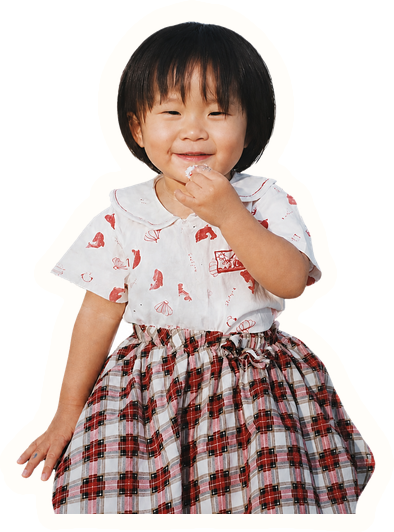
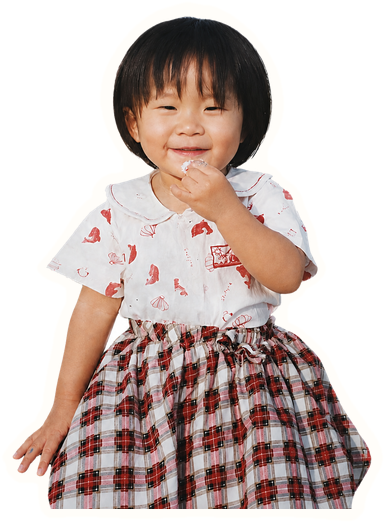
신랑 부모님 편지를 한 줄씩 오려 붙인 구성으로 변경, 아기 스티커 테두리·크기 조정, 두 편지 모두 사진 위·글 아래 구성과 머리말 위치 변경, 신부 부모님 계좌 추가

diff --git a/css/style.css b/css/style.css
@@ -408,21 +408,33 @@ body {
 /* margin 대신 padding — 위쪽 여백이 섹션 밖으로 새어 검은 띠가 생기지 않도록 */
 .lt { position: relative; padding-top: 46px; background: #fff; }
 .lt:first-child { padding-top: 0; }
-.lt--groom { padding-bottom: 58px; }
+.lt--groom, .lt--bride { padding-bottom: 58px; }
 
 /* 작은 머리말 (현진이에게, 형규가) */
 .lt__tag {
   position: absolute;
-  z-index: 3;
+  z-index: 4;
   top: 20px;
   font-family: "Nanum Myeongjo", serif;
   font-size: 13px;
   letter-spacing: .08em;
   color: #6b625e;
 }
-.lt__tag--right { right: 9%; }
-.lt__tag--left { left: 9%; }
-.lt__tag--light { color: #fff; text-shadow: 0 1px 3px rgba(0,0,0,.85), 0 2px 16px rgba(0,0,0,.6); }
+/* 신랑 — 사진과 손글씨 사이 오른쪽 */
+.lt__tag--join {
+  position: relative;   /* 페이드 그라데이션 위로 올라오도록 */
+  z-index: 4;
+  display: block;
+  margin: 6px 9% 10px;
+  text-align: right;
+}
+/* 신부 — 사진 좌상단 (밝은 하늘이라 짙은 글씨) */
+.lt__tag--topleft {
+  left: 9%;
+  top: 68px;          /* .lt 위쪽 여백(46px) + 사진 안쪽 22px */
+  color: #4a4540;
+  text-shadow: 0 1px 6px rgba(255,255,255,.9);
+}
 
 /* 손글씨 */
 .lt__hand {
@@ -438,21 +450,19 @@ body {
   word-break: keep-all;
 }
 /* 신랑 편지는 사진이 사라진 자리로 글이 올라와 앉습니다 */
-.lt--groom .lt__hand { margin: -13% 9% 0; }
+.lt--groom .lt__hand,
+.lt--bride .lt__hand { margin: 0 9%; }
+/* 사진이 사라진 자리로 글이 올라와 앉습니다 */
+.lt--groom .lt__tag--join { margin-top: -13%; }
+.lt--bride .lt__hand { margin-top: -13%; }
 
-.lt__frame { position: relative; margin-top: -6px; }
-.lt--groom .lt__frame { margin-top: 0; }
+.lt__frame { position: relative; }
 .lt__img { display: block; width: 100%; }
 
 /* 사진이 흰 종이로 서서히 사라지는 그라데이션
    신부: 사진 위쪽 / 신랑: 사진 아래쪽 */
 .lt__fade { position: absolute; left: 0; right: 0; height: 40%; pointer-events: none; }
-.lt--bride .lt__fade {
-  top: 0;
-  background: linear-gradient(180deg,
-    #fff 0%, rgba(255,255,255,.97) 12%, rgba(255,255,255,.78) 34%,
-    rgba(255,255,255,.45) 58%, rgba(255,255,255,.16) 80%, rgba(255,255,255,0) 100%);
-}
+.lt--bride .lt__fade,
 .lt--groom .lt__fade {
   bottom: 0;
   height: 48%;
@@ -1480,16 +1490,16 @@ body.no-scroll { overflow: hidden; height: 100vh; }
 }
 /* 아기1 — 가족사진 좌상단 */
 .parents__sticker--1 {
-  width: 142px;
-  left: -30px;
-  top: -46px;
+  width: 30%;
+  left: -7%;
+  top: -11%;
   transform: rotate(-8deg);
 }
 /* 아기2 — 부모님 편지 우하단 */
 .parents__sticker--2 {
-  width: 180px;
-  right: -26px;
-  bottom: -70px;
+  width: 44%;
+  right: -6%;
+  bottom: -13%;
   transform: rotate(6deg);
 }
 
@@ -1511,6 +1521,31 @@ body.no-scroll { overflow: hidden; height: 100vh; }
 .parents__doodle--d5 { right: -26px; top: 34%; transform: rotate(16deg); opacity: .82; }
 .parents__doodle--d6 { left: 22%; top: -30px; transform: rotate(-20deg); opacity: .74; }
 .parents__doodle--d7 { right: 16%; bottom: -40px; transform: rotate(24deg); opacity: .78; }
+
+/* 손편지를 한 줄씩 오려 붙인 구성 */
+.parents__lines {
+  position: relative;
+  margin: 40px auto 0;
+  width: 96%;
+}
+.parents__line {
+  display: block;
+  width: 100%;
+  margin-bottom: 4px;
+  filter: drop-shadow(0 3px 6px rgba(120, 60, 80, .22));
+}
+.parents__line--1 { transform: rotate(-1.1deg); }
+.parents__line--2 { transform: rotate(.9deg) translateX(2%); }
+.parents__line--3 { transform: rotate(-.6deg) translateX(-1.5%); }
+.parents__line--4 { transform: rotate(1.3deg) translateX(1%); }
+
+/* 오려 붙인 편지에서는 아기 사진을 줄 아래 오른쪽에 (글자를 가리지 않게) */
+.parents__lines .parents__sticker--2 {
+  position: static;
+  display: block;
+  width: 44%;
+  margin: -9% -4% 0 auto;
+}
 
 /* 손편지 — 살짝 기울인 카드 + 테이프 */
 .parents__letter {

diff --git a/js/main.js b/js/main.js
@@ -210,7 +210,12 @@
           ${babies[0] ? `<img class="parents__sticker parents__sticker--1" src="${babies[0]}" alt="${s.who} 어린 시절" loading="lazy" />` : ""}
           ${doodleHtml(alt)}
         </div>` : ""}
-        ${s.letterImage ? `
+        ${(s.letterLines && s.letterLines.length) ? `
+        <div class="parents__lines">
+          ${s.letterLines.map((src, k) => `<img class="parents__line parents__line--${(k % 4) + 1}" src="${src}" alt="" loading="lazy" />`).join("")}
+          ${babies[1] ? `<img class="parents__sticker parents__sticker--2" src="${babies[1]}" alt="${s.who} 어린 시절" loading="lazy" />` : ""}
+        </div>`
+        : s.letterImage ? `
         <div class="parents__letter">
           <img src="${s.letterImage}" alt="${s.who} 부모님의 편지" loading="lazy" />
           ${babies[1] ? `<img class="parents__sticker parents__sticker--2" src="${babies[1]}" alt="${s.who} 어린 시절" loading="lazy" />` : ""}
@@ -235,9 +240,9 @@
           </div>`;
       }
 
+      // 신랑 머리말은 사진과 글 사이 오른쪽에, 신부 머리말은 사진 좌상단에
       const tag = l.tag
-        ? `<span class="lt__tag lt__tag--${isGroom ? "right lt__tag--light" : "left"}">`
-          + escapeHtml(l.tag) + "</span>"
+        ? `<span class="lt__tag lt__tag--${isGroom ? "join" : "topleft"}">` + escapeHtml(l.tag) + "</span>"
         : "";
       const hand = `<p class="lt__hand">${escapeHtml(l.text).replace(/\n/g, "<br/>")}</p>`;
       const frame = l.photo ? `
@@ -248,10 +253,10 @@
 
       // 신랑 → 사진이 위, 아래로 흐려지며 그 아래에 손글씨
       // 신부 → 손글씨가 위, 사진 윗부분이 흐려지며 이어짐
+      // 두 편지 모두 사진이 위, 아래로 흐려지며 그 자리에 손글씨가 앉습니다
       return `
         <div class="lt lt--${isGroom ? "groom" : "bride"} reveal">
-          ${tag}
-          ${isGroom ? frame + hand : hand + frame}
+          ${isGroom ? frame + tag + hand : tag + frame + hand}
         </div>`;
     }).join("");
   }

diff --git a/js/config.js b/js/config.js
@@ -112,6 +112,15 @@ const WEDDING_CONFIG = {
       who: "형규",
       family: "assets/parents/groom-family.jpg",
       letterImage: "assets/parents/groom-letter.jpg",
+      // 손편지를 한 줄씩 오려 붙이려면 아래에 줄 이미지들을 넣으세요 (있으면 letterImage 대신 사용)
+      letterLines: [
+        "assets/parents/groom-letter/1.png",
+        "assets/parents/groom-letter/2.png",
+        "assets/parents/groom-letter/3.png",
+        "assets/parents/groom-letter/4.png",
+        "assets/parents/groom-letter/5.png",
+        "assets/parents/groom-letter/6.png",
+      ],
       babies: ["assets/parents/groom-baby1.png", "assets/parents/groom-baby2.png"],
     },
   },
@@ -156,8 +165,8 @@ const WEDDING_CONFIG = {
     ],
     brideSide: [
       { holder: "방현진", relation: "신부", bank: "국민", number: "026402-04-147985", phone: "010-3198-2090", kakaopay: "" },
-      { holder: "방제연", relation: "혼주", bank: "은행명", number: "계좌번호 입력", phone: "", kakaopay: "" },
-      { holder: "곽명임", relation: "혼주", bank: "은행명", number: "계좌번호 입력", phone: "", kakaopay: "" },
+      { holder: "방제연", relation: "혼주", bank: "기업", number: "055-082229-01-014", phone: "010-7309-2468", kakaopay: "" },
+      { holder: "곽명임", relation: "혼주", bank: "국민", number: "093602-04-075617", phone: "010-5173-1170", kakaopay: "" },
     ],
   },
 
